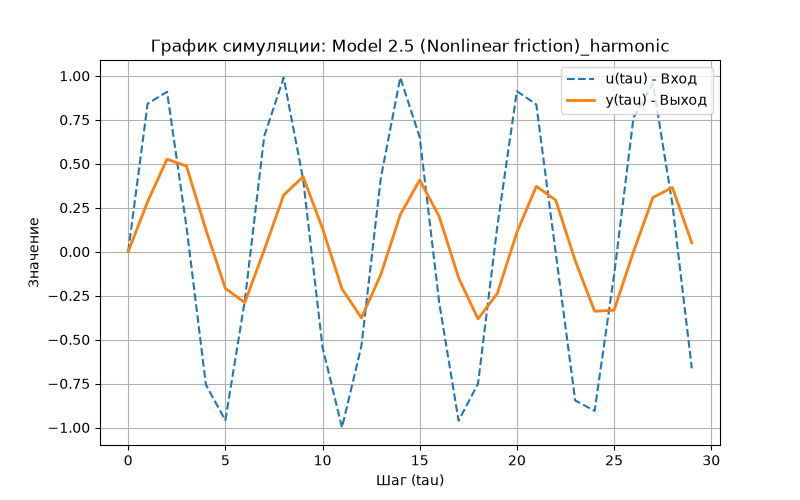
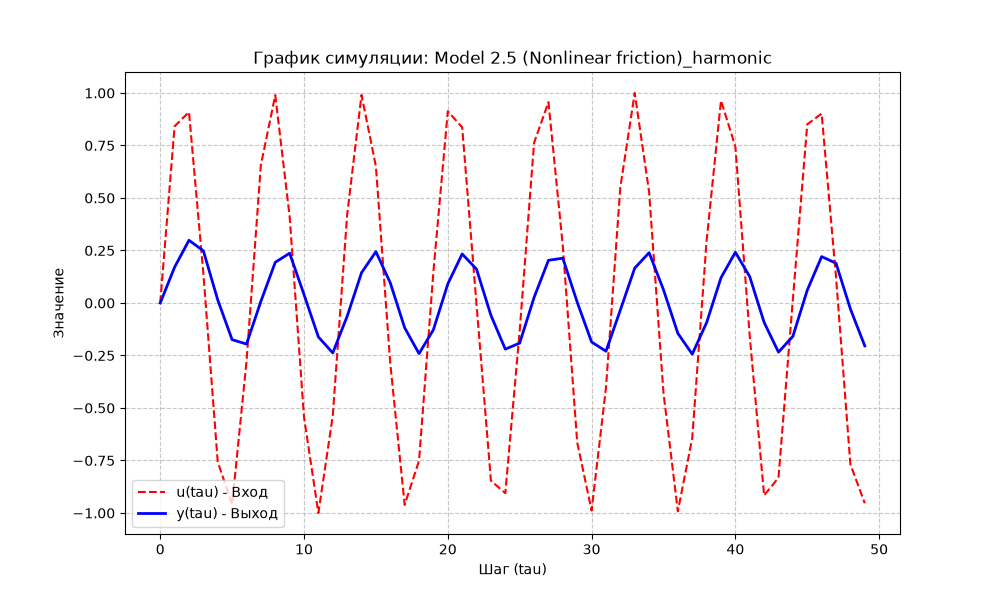
внесены изменения в код программы

Changed region(s): [[0.0312, 0.06, 0.9062, 0.93], [0.4688, 0.84, 0.5625, 0.99]]

diff --git a/trunk/as06805/task_01/src/main.cpp b/trunk/as06805/task_01/src/main.cpp
@@ -1,97 +1,132 @@
+#include <iostream>
+#include <vector>
+#include <memory>
+#include <fstream>
+#include <iomanip>
+#include <limits>
+#include <string>
+#include <utility>
+#include <sstream>
+
+#include "Model.h"
 #include "LinearModel13.h"
 #include "NonlinearModel25.h"
 #include "ODEModel37.h"
+#include "SignalGenerator.h"
 #include "Simulator.h"
-#include <iostream>
-#include <memory>
-#include <vector>
-#include <array>
-#include <string>
-#include <stdexcept>
 
-#ifdef _WIN32
-#include <windows.h>
-#endif
+double getValidDouble(const std::string& prompt) {
+    double value;
+    std::string input;
+    while (true) {
+        std::cout << prompt;
+        if (std::cin >> input) {
+            for (char& c : input) {
+                if (c == ',') c = '.';
+            }
+            std::stringstream ss(input);
+            if (ss >> value && ss.eof()) {
+                return value;
+            }
+        }
+        std::cout << " Ошибка: введите корректное число (например, 0.8 или -0.2).\n";
+        std::cin.clear();
+        std::cin.ignore((std::numeric_limits<std::streamsize>::max)(), '\n');
+    }
+}
 
-void runModelSimulation(Model& model, int steps) {
-    Simulator sim(std::unique_ptr<Model>(&model), steps); // Временное создание под вывод
-
-    const std::array<SignalType, 3> signals = {
-        SignalType::STEP,
-        SignalType::IMPULSE,
-        SignalType::HARMONIC
-    };
-
-    const std::array<std::string, 3> signalNames = {
-        "step",
-        "impulse",
-        "harmonic"
-    };
-
-    for (size_t i = 0; i < signals.size(); ++i) {
-        SignalGenerator gen(signals[i], 1.0);
-        
-        // Создаем симулятор заново под каждую генерацию
-        Simulator activeSim(std::unique_ptr<Model>(nullptr), steps);
-        
-        std::cout << "\n-----------------------------------------\n";
-        std::cout << " Воздействие: " << signalNames[i] << "\n";
-        
-        // Для демонстрации используем локальный запуск
-        auto results = sim.run(gen);
-        sim.printTable(results, gen);
-
-        std::string filename = "plot_" + model.name() + "_" + signalNames[i] + ".csv";
-        sim.exportCSV(results, gen, filename);
-        
-        std::string pyCmd = "python plot_single.py \"" + filename + "\"";
-        
-        if (int sysRes = std::system(pyCmd.c_str()); sysRes != 0) {
-            std::cerr << "Предупреждение: Python скрипт вернул код " << sysRes << "\n";
+int getValidInt(const std::string& prompt, int min_val = 1, int max_val = 10000) {
+    int value;
+    while (true) {
+        std::cout << prompt;
+        if (std::cin >> value) {
+            if (value >= min_val && value <= max_val) {
+                return value;
+            }
+            std::cout << " Ошибка: значение должно быть от " << min_val << " до " << max_val << ".\n";
+        } else {
+            std::cout << " Ошибка: введите целое число.\n";
+            std::cin.clear();
+            std::cin.ignore((std::numeric_limits<std::streamsize>::max)(), '\n');
         }
     }
 }
 
 int main() {
-#ifdef _WIN32
-    SetConsoleOutputCP(65001);
-#endif
+    std::cout << "=== МОДЕЛИРОВАНИЕ ДИНАМИЧЕСКИХ СИСТЕМ ===\n\n";
 
-    try {
-        std::cout << "Выберете модель для запуска (1 - Linear1.3, 2 - NonLinear2.5, 3 - ODE3.7, 0 - Все): ";
-        int choice = 0;
-        if (!(std::cin >> choice)) {
-            std::cerr << "Ошибка ввода!\n";
-            return 1;
-        }
+    std::cout << "Выберите модель для исследования:\n";
+    std::cout << "1. LinearModel13 (Linear 2nd order)\n";
+    std::cout << "2. NonlinearModel25 (Nonlinear friction)\n";
+    std::cout << "3. ODEModel37 (ODE Euler)\n";
+    
+    int modelChoice = getValidInt("Ваш выбор модели (1-3) [например, 1]: ", 1, 3);
 
-        int steps = 30;
+    std::cout << "\nВыберите тип входного сигнала:\n";
+    std::cout << "1. Ступенчатый (STEP)\n";
+    std::cout << "2. Импульсный (IMPULSE)\n";
+    std::cout << "3. Гармонический (HARMONIC)\n";
+    
+    int signalChoice = getValidInt("Ваш выбор сигнала (1-3) [например, 1]: ", 1, 3);
+    double amplitude = getValidDouble("Введите амплитуду сигнала [например, 1.0]: ");
 
-        if (choice == 1 || choice == 0) {
-            std::cout << "\n--- Моделирование LinearModel13 ---\n";
-            LinearModel13 m1(0.5, 0.1, 1.0);
-            runModelSimulation(m1, steps);
-        }
-
-        if (choice == 2 || choice == 0) {
-            std::cout << "\n--- Моделирование NonlinearModel25 ---\n";
-            NonlinearModel25 m2(0.8, 0.5);
-            runModelSimulation(m2, steps);
-        }
-
-        if (choice == 3 || choice == 0) {
-            std::cout << "\n--- Моделирование ODEModel37 ---\n";
-            ODEModel37 m3(0.1, 1.0, 0.1);
-            runModelSimulation(m3, steps);
-        }
-
-    } catch (const std::exception& e) {
-        std::cerr << "Произошла ошибка выполнения: " << e.what() << "\n";
-        return 1;
-    } catch (...) {
-        std::cerr << "Произошла неизвестная ошибка!\n";
-        return 1;
+    SignalType sigType = SignalType::STEP;
+    std::string signalName = "step";
+    if (signalChoice == 2) {
+        sigType = SignalType::IMPULSE;
+        signalName = "impulse";
+    } else if (signalChoice == 3) {
+        sigType = SignalType::HARMONIC;
+        signalName = "harmonic";
     }
+
+    SignalGenerator signalGen(sigType, amplitude);
+
+    int steps = getValidInt("\nВведите количество шагов N (1..10000) [например, 50]: ", 1, 10000);
+
+    std::unique_ptr<Model> model;
+
+    if (modelChoice == 1) {
+        std::cout << "\n--- Параметры LinearModel13 ---\n";
+        double a1 = getValidDouble("Введите a1 [например, 0.8]: ");
+        double a2 = getValidDouble("Введите a2 [например, -0.2]: ");
+        double b  = getValidDouble("Введите b [например, 0.5]: ");
+        model = std::make_unique<LinearModel13>(a1, a2, b);
+    } 
+    else if (modelChoice == 2) {
+        std::cout << "\n--- Параметры NonlinearModel25 ---\n";
+        double a = getValidDouble("Введите a [например, 0.7]: ");
+        double b = getValidDouble("Введите b [например, 0.3]: ");
+        model = std::make_unique<NonlinearModel25>(a, b);
+    } 
+    else {
+        std::cout << "\n--- Параметры ODEModel37 ---\n";
+        double a  = getValidDouble("Введите a [например, 0.5]: ");
+        double b  = getValidDouble("Введите b [например, 1.0]: ");
+        double dt = getValidDouble("Введите шаг интегрирования dt [например, 0.1]: ");
+        model = std::make_unique<ODEModel37>(a, b, dt);
+    }
+
+    std::string modelName = model->name();
+
+    Simulator simulator(std::move(model), steps);
+    std::vector<double> results = simulator.run(signalGen);
+
+    simulator.printTable(results, signalGen);
+    simulator.exportCSV(results, signalGen, "results.csv");
+
+    std::ofstream fout("results.txt");
+    if (fout.is_open()) {
+        // Записываем заголовок с названием модели и сигнала
+        fout << "# " << modelName << "|" << signalName << "\n";
+        for (size_t i = 0; i < results.size(); ++i) {
+            double uVal = signalGen.get(static_cast<double>(i));
+            fout << i << " " << uVal << " " << results[i] << "\n";
+        }
+        fout.close();
+    }
+
+    std::cout << "\n[Инфо] Результаты сохранены в results.csv и results.txt\n";
 
     return 0;
 }

diff --git a/trunk/as06805/task_01/plot_results.py b/trunk/as06805/task_01/plot_results.py
@@ -1,0 +1,65 @@
+import os
+import matplotlib.pyplot as plt
+
+possible_paths = [
+    os.path.join("build", "src", "Debug", "results.txt"),
+    os.path.join("build", "src", "Release", "results.txt"),
+    os.path.join("build", "results.txt"),
+    "results.txt"
+]
+
+file_path = None
+for path in possible_paths:
+    if os.path.exists(path):
+        file_path = path
+        break
+
+tau = []
+u = []
+y = []
+model_name = "Simulation"
+signal_name = "result"
+
+if file_path:
+    print(f"[Инфо] Чтение данных из файла: {file_path}")
+    try:
+        with open(file_path, "r", encoding="utf-8") as f:
+            for line in f:
+                if line.startswith("#"):
+                    header = line.strip("# \n")
+                    if "|" in header:
+                        model_name, signal_name = header.split("|")
+                    continue
+                parts = line.replace(',', ' ').split()
+                if len(parts) >= 3:
+                    tau.append(float(parts[0]))
+                    u.append(float(parts[1]))
+                    y.append(float(parts[2]))
+
+        if tau:
+            plt.figure(figsize=(10, 6))
+            plt.plot(tau, u, 'r--', label='u(tau) - Вход')
+            plt.plot(tau, y, 'b-', linewidth=2, label='y(tau) - Выход')
+            plt.title(f"График симуляции: {model_name}_{signal_name}")
+            plt.xlabel("Шаг (tau)")
+            plt.ylabel("Значение")
+            plt.grid(True, linestyle='--', alpha=0.7)
+            plt.legend()
+            
+            doc_dir = "doc"
+            if not os.path.exists(doc_dir):
+                os.makedirs(doc_dir)
+            
+            # Сохраняем ровно под тем именем, которое требуется для отчета
+            output_name = f"{model_name}_{signal_name}.png"
+            output_img = os.path.join(doc_dir, output_name)
+            plt.savefig(output_img)
+            print(f"[Инфо] График обновлен в: {output_img}")
+
+            plt.show()
+        else:
+            print("[Ошибка] Файл найден, но он пустой!")
+    except Exception as e:
+        print(f"[Ошибка] Ошибка при чтении файла: {e}")
+else:
+    print("[Ошибка] Файл результатов results.txt не найден!")
